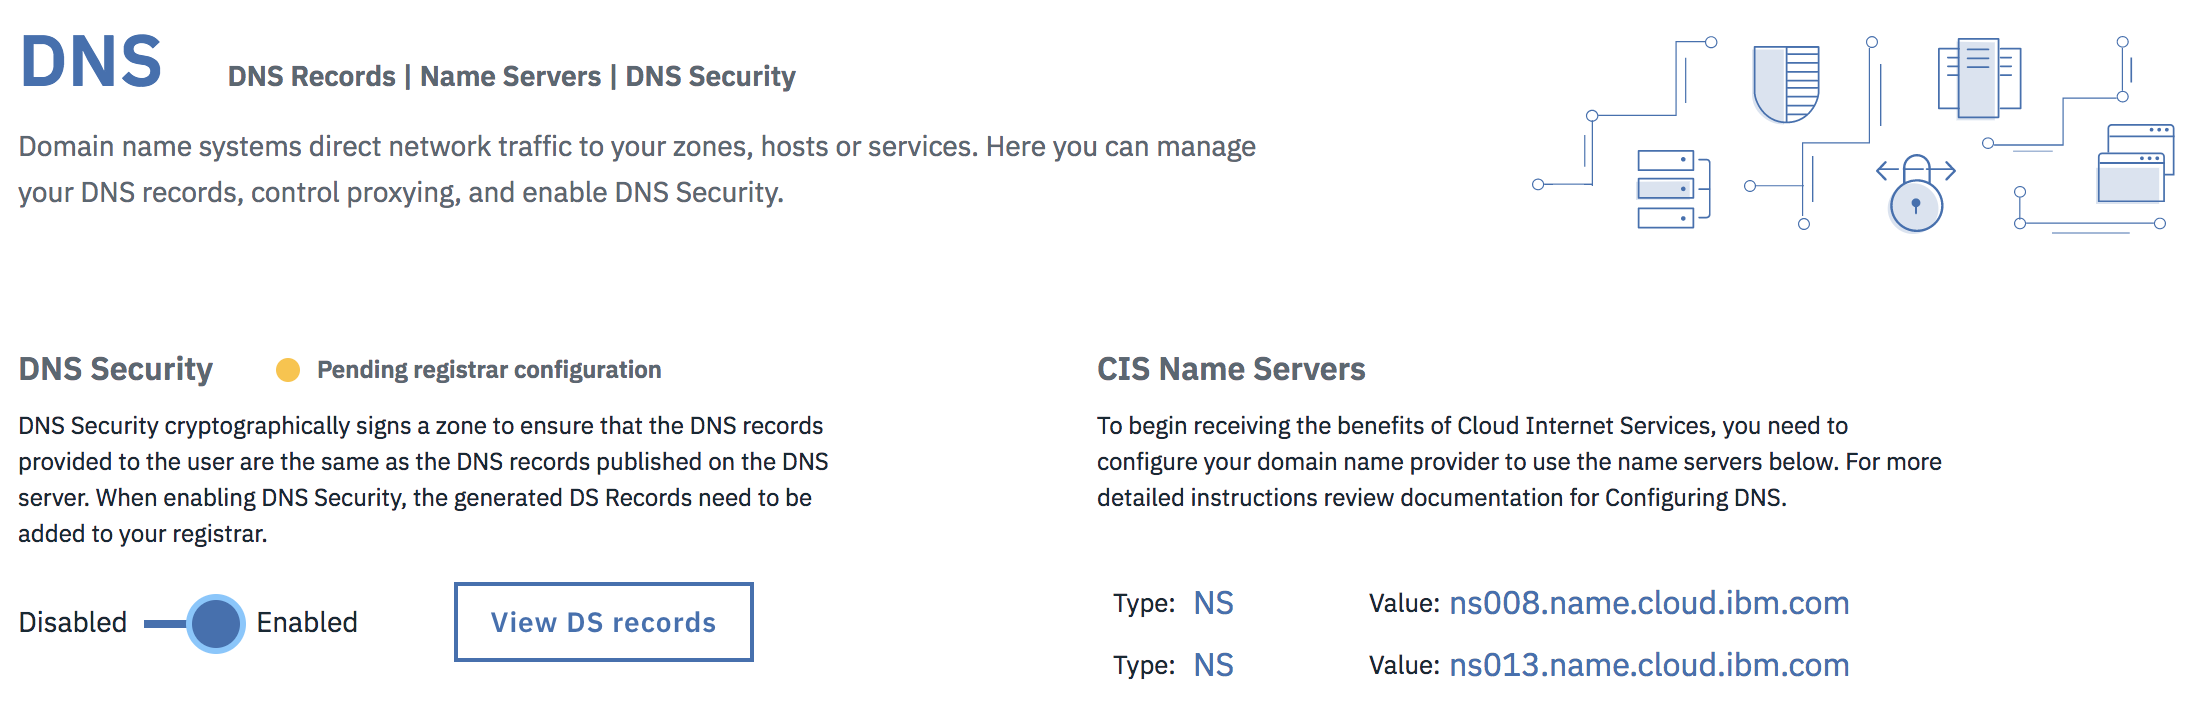
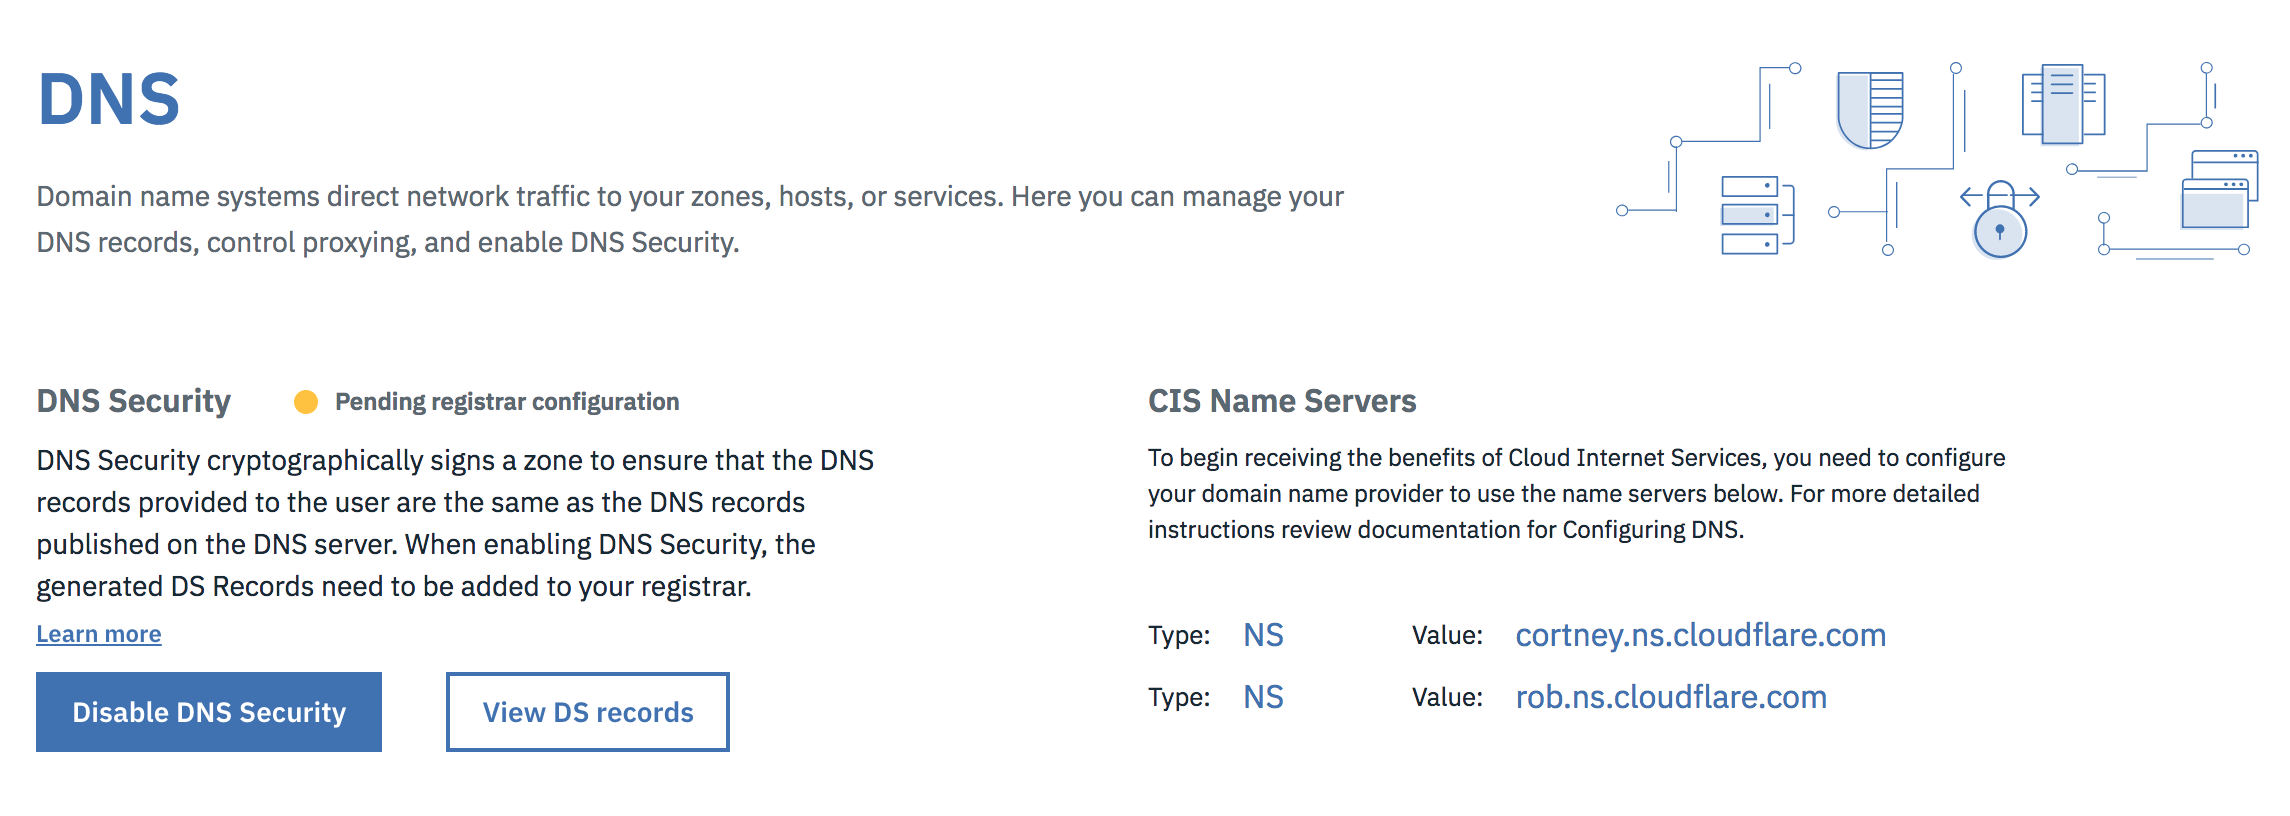
Updates removing EAP
Small fixes to remove EAP mentions, update screenshots, and add known limitations/FAQ .

diff --git a/faq.md b/faq.md
@@ -1,7 +1,7 @@
 ---
 copyright:
   years: 2018
-lastupdated: "2018-05-30"
+lastupdated: "2018-05-31"
 ---
 
 {:shortdesc: .shortdesc}
@@ -10,7 +10,7 @@ lastupdated: "2018-05-30"
 # FAQ
 
 ## What do I get with a Free Trial Plan?
-The Free Trial plan, by design, allows only one zone per account. It is recommended that only one instance be created per account and the zone name be verified. It is critical that the zone name be verified before it is added. If a zone is deleted, another zone or the same zone cannot be added during Early Access program.
+The Free Trial plan, by design, allows only one zone per account. It is recommended that only one instance be created per account and the zone name be verified. It is critical that the zone name be verified before it is added. If a zone is deleted, another zone or the same zone cannot be added during the Free Trial Plan.
 
 ## I added a user to my account and gave that user permission to manage Internet Services instance(s). Why is that user facing authentication issues?
 It is possible that you did not assign "service access roles" to the user. Note that there are two separate sets of roles: "platform access" and "service access". Platform access roles are required to create and manage service instances, but service access roles are required to perform service-specific operations on service instances. In the console, these settings can be updated by selecting **Manage > Security > Identity and Access**.
@@ -66,7 +66,7 @@ All of these IPs must be whitelisted to avoid 522 errors. It's also worth checki
 
 522 errors can also be caused by network connectivity issues, so confirm that your server and network is generally healthy and not overloaded.
 
-If after taking the above steps you still receive errors, please contact IBM CIS support and confirm the following:
+If after taking the above steps you still receive errors, contact IBM CIS support and confirm the following:
 
 * You've whitelisted our IP ranges
 * Your server/network is online and generally healthy
@@ -82,8 +82,12 @@ $ whois 104.28.22.57 | grep OrgName
 OrgName:        IBM
 ```
 
-If you would rather bypass CIS on a domain (we will still resolve DNS), then non-proxying the record would be a possible solution.
+If you would rather bypass CIS on a domain (we will still resolve DNS), then non-proxying the record is a possible solution.
 
 ## I got a DNS Validation error: 1004; now what can I do?
 
 For page rules to work, DNS needs to resolve for your zone. As a result, you must have a proxied DNS record for your zone. 
+
+## Can I add a CNAME for a root record?
+
+Yes. IBM CIS supports a feature called "CNAME Flattening" which allows our users to add a CNAME as a root record. Our authoritative DNS servers enumerate the CNAME target's records and respond with those records instead of the CNAME itself, effectively hiding the fact that the user configured a CNAME at the root of the domain.

diff --git a/known-limitations.md b/known-limitations.md
@@ -1,7 +1,7 @@
 ---
 copyright:
   years: 2018
-lastupdated: "2018-05-15"
+lastupdated: "2018-05-30"
 ---
 
 {:shortdesc: .shortdesc}
@@ -15,11 +15,11 @@ lastupdated: "2018-05-15"
  
  * Without a configured domain, you can navigate to **Reliability > Global Load Balancers** to create your load balancer pools and health checks. However, if you select **Create load balancer**, configure the load balancer, and click **Provision 1 Resource**, the request will be rejected because a domain is required. This functional limitation helps the user understand the purpose of pools and monitors in the load balancer creation flow.
  
- * The Early Access program is limited to one instance per account. After you create a resource instance and add a domain to it, you are not allowed to add new resource instances for CIS. This restriction is enforced even if you delete a trial domain and then attempt to add a domain again to the same resource instance. You'll encounter an error if you attempt to do so.
+ * The Free Trial plan is limited to one instance per account. After you create a resource instance and add a domain to it, you are not allowed to add new resource instances for CIS. This restriction is enforced even if you delete a trial domain and then attempt to add a domain again to the same resource instance. You'll encounter an error if you attempt to do so.
 
  * When you add a new domain, our system currently does not gather or import your existing domain records.
 
- * For this Early Access program, we support subdomain delegation only using NS records from another provider. CNAME delegation is not supported.
+ * For this service, we support subdomain delegation only using NS records from another provider. CNAME delegation is not supported.
  
  * At this time, LOC records cannot be imported. As a workaround, use the UI or API to create any LOC records.
  

diff --git a/cli/cli-waf.md b/cli/cli-waf.md
@@ -35,7 +35,7 @@ The following `waf` commands are available:
   `ibmcloud cis waf-setting DNS_DOMAIN_ID`
 
 ### ARGUMENTS:
-   `DNS_DOMAIN_ID` is the id of DNS domain.
+   `DNS_DOMAIN_ID` is the ID of DNS domain.
 
 ### OPTIONS:
    `-i, --instance`  Instance name. If not set, the context instance specified by `ibmcloud cis instance-set` is used.
@@ -56,7 +56,7 @@ The following `waf` commands are available:
   `ibmcloud cis waf-setting-update DNS_DOMAIN_ID WAF_MODE`
 
 ### ARGUMENTS:
-   `DNS_DOMAIN_ID` is the id of DNS domain.
+   `DNS_DOMAIN_ID` is the ID of DNS domain.
    
    `WAF_MODE` is the mode of WAF setting. Valid values are:  `waf-enable` , `waf-disable`.
 
@@ -79,14 +79,14 @@ The following `waf` commands are available:
   `ibmcloud cis waf-packages DNS_DOMAIN_ID`
 
 ### ARGUMENTS:
-   `DNS_DOMAIN_ID` is the id of DNS domain.
+   `DNS_DOMAIN_ID` is the ID of DNS domain.
 
 ### OPTIONS:
    `-i, --instance`  Instance name. If not set, the context instance specified by `ibmcloud cis instance-set` is used.
 
 #### Output Message:
 
-   * package id
+   * package ID
    * package name
    * package mode
 
@@ -126,7 +126,7 @@ The following `waf` commands are available:
   `ibmcloud cis waf-package-set DNS_DOMAIN_ID OWASP_PACKAGE_ID SENSITIVITY ACTION_MODE`
 
 ### ARGUMENTS:
-   `DNS_DOMAIN_ID` is the id of DNS domain.
+   `DNS_DOMAIN_ID` is the ID of DNS domain.
    
    `OWASP_PACKAGE_ID` is the package ID of OWASP.
    

diff --git a/dns-concepts.md b/dns-concepts.md
@@ -33,3 +33,7 @@ A **custom domain name server** allows you to utilize the DNS provider's servers
 ## Secure DNS
 
 **DNSSec** is a technology to digitally 'sign' DNS data so you can be assured it is valid. To eliminate vulnerability from the internet, DNSSec must be deployed at each step in the lookup, from root zone to final domain name (for example, www.icann.org).
+
+## Root Record CNAME Flattening
+
+IBM CIS supports a feature called "CNAME Flattening." Using this method, root records can overcome the IETF RFC restriction that if a root record is a CNAME, it cannot have any other records for that domain. CIS Authoritative servers overcome this restriction by returning the A records corresponding to the CNAME target instead of returning the CNAME itself, effectively hiding the CNAME. This technique allows other records such as MX records to be added to the domain, even though the root record is a CNAME.

diff --git a/cli/cli-cache.md b/cli/cli-cache.md
@@ -30,7 +30,7 @@ The following `cache` commands are available:
 
    *  `--all` Clear cached assets entirely, when this option exists, users are asked to confirm `Y/N`. Purging all cached files increases page load times while the files are being re-created. This process removes all of your cached data on all edge servers.
 
-   * `-f, --file** file1,file2,...`  an array of files (separated by commas) that should be cleared from cache. You may purge up to 30 files at a time with comma-separated files. To specify a file, you must enter the full path. Wildcards are not supported at this time.
+   * `-f, --file file1,file2,...`  an array of files (separated by commas) that should be cleared from cache. You may purge up to 30 files at a time with comma-separated files. To specify a file, you must enter the full path. Wildcards are not supported at this time.
 
 
 #### Output messages:

diff --git a/cis-cli-overview.md b/cis-cli-overview.md
@@ -21,7 +21,7 @@ The following families of commands are available from the command line interface
   * [WAF](cli/cli-waf.html)
   * [Pagerule](cli/cli-pagerule.html)
   * [Metrics](cli/cli-metrics.html)
-  * [Overview](#overview)
+  * [Overview](#the-overview-command-definition)
 
 The CIS CLI documentation is shown in modified `man` page format. The `overview` command also is one of the CLI commands available to you. It just happens to make a good example as well, so we included it here.
 
